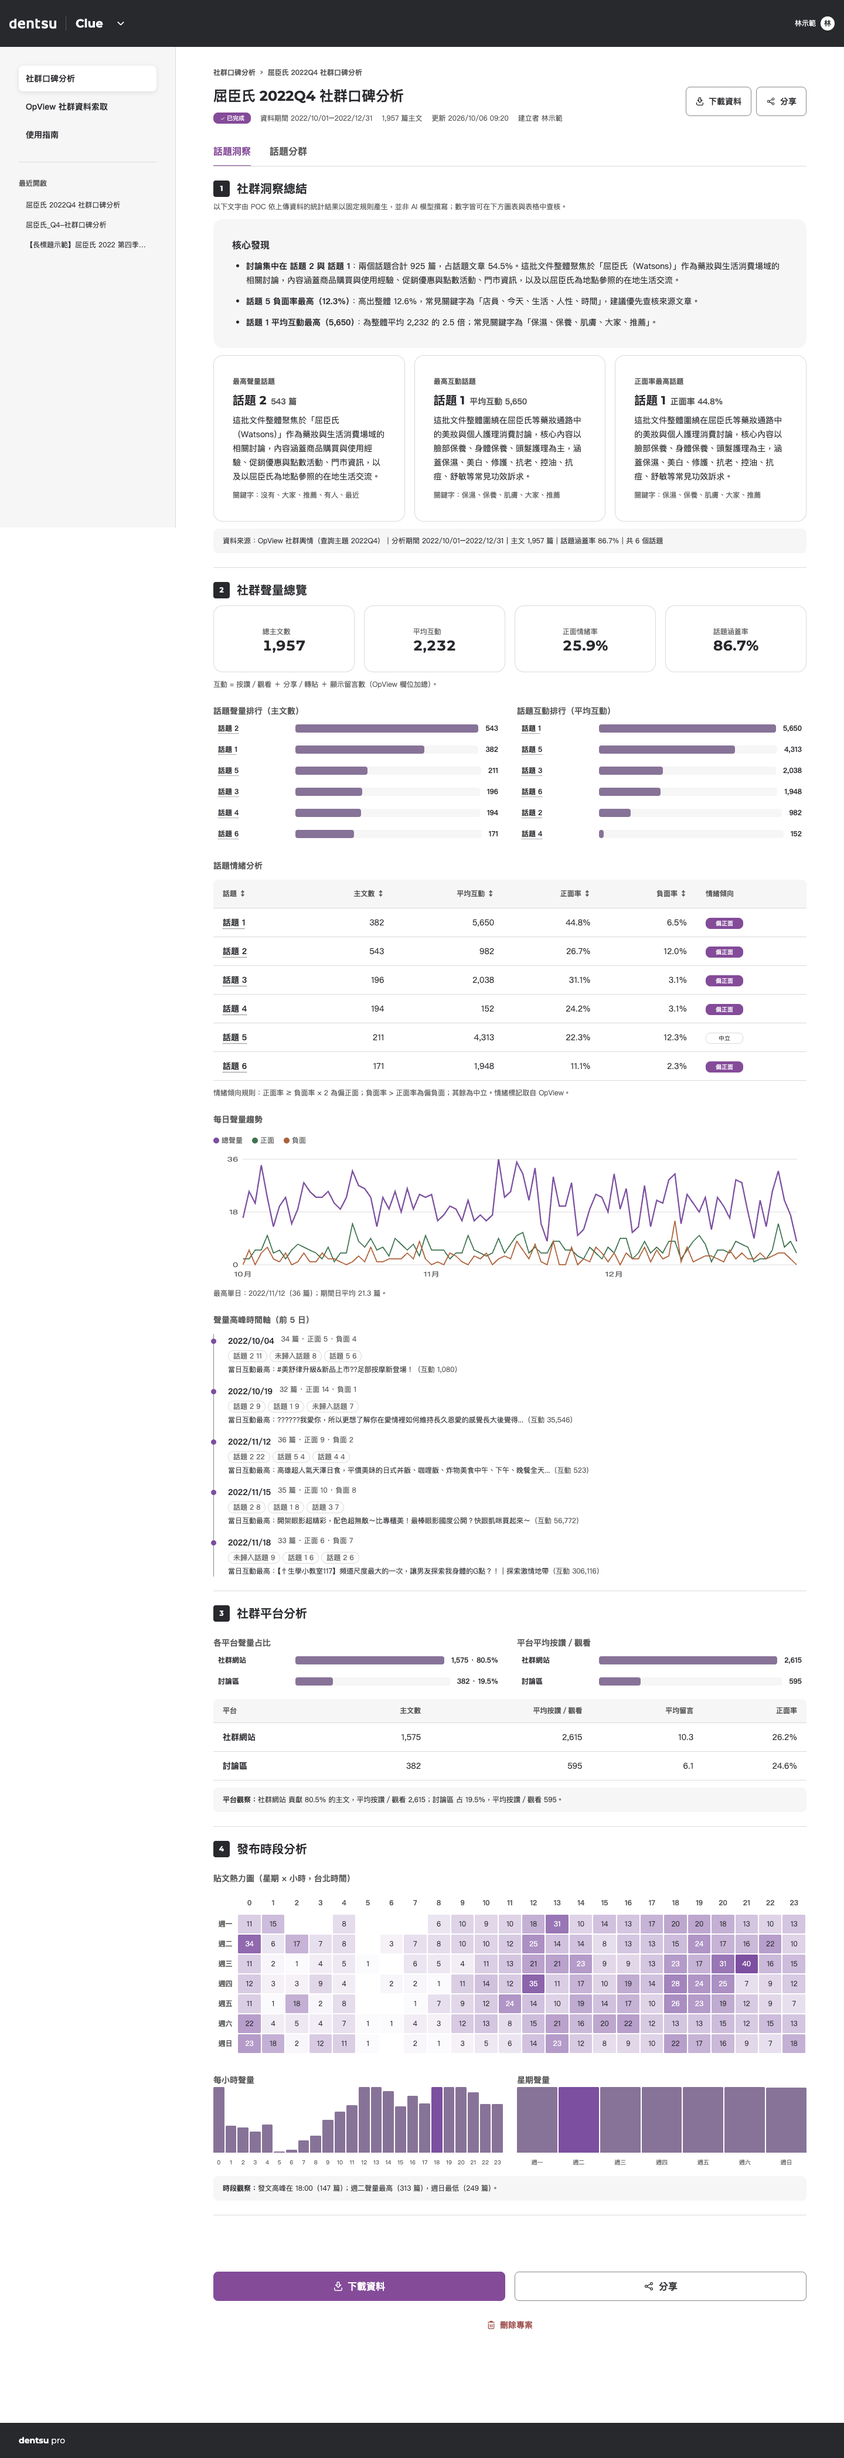
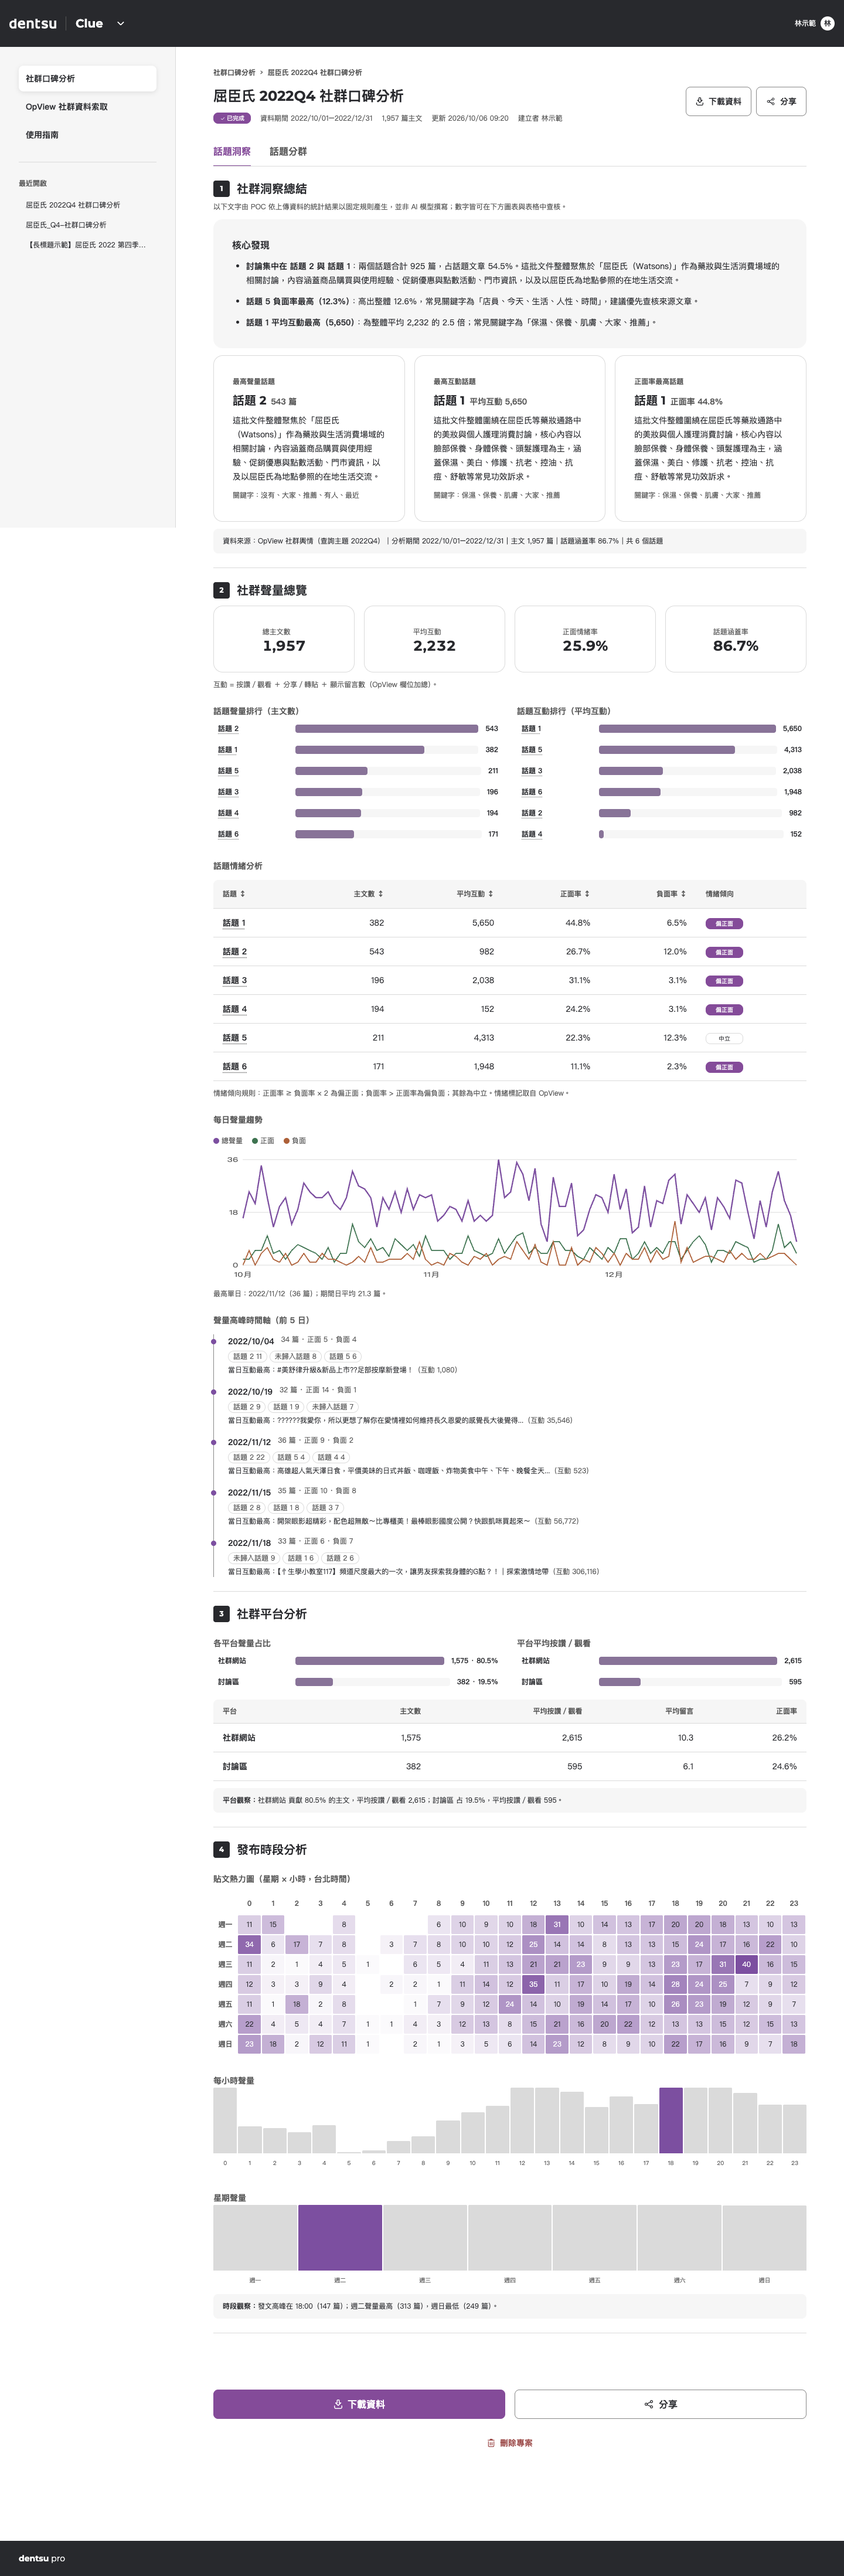
Stack hourly/weekday bars, recolor by rank, add value tooltips to charts
- 每小時聲量 / 星期聲量 charts: stacked vertically instead of side-by-side;
  bars default to light gray, only the peak bar stays Clue purple; each bar
  is now a focusable button showing its value on hover/focus/click.
- 每日聲量趨勢 line chart: added invisible per-day hit areas so hovering,
  focusing, or clicking a point shows that day's 總聲量/正面/負面 values in
  a tooltip color-matched to the legend (purple/green/brown).
- Extended the shared tooltip (topic-tip.js) with showSimple() and
  showMulti(), plus click-to-show and click-away-to-dismiss so it also
  works on touch devices.

220/220 E2E checks pass.

diff --git a/poc/js/views/analysis.js b/poc/js/views/analysis.js
@@ -271,6 +271,21 @@ async function renderResults(view, an, query) {
   view.addEventListener('mouseout', (e) => { if (e.target.closest('[data-topic]')) topicTip.hide(); });
   view.addEventListener('focusin', (e) => { const el = e.target.closest('[data-topic]'); if (el) showTip(el); });
   view.addEventListener('focusout', (e) => { if (e.target.closest('[data-topic]')) topicTip.hide(); });
+  view.addEventListener('click', (e) => { const el = e.target.closest('[data-topic]'); if (el) showTip(el); });
+  // 每小時／星期聲量長條：hover／focus／click 顯示數量
+  const showBarTip = (el) => topicTip.showSimple(el, el.dataset.tip);
+  view.addEventListener('mouseover', (e) => { const el = e.target.closest('[data-tip]'); if (el) showBarTip(el); });
+  view.addEventListener('mouseout', (e) => { if (e.target.closest('[data-tip]')) topicTip.hide(); });
+  view.addEventListener('focusin', (e) => { const el = e.target.closest('[data-tip]'); if (el) showBarTip(el); });
+  view.addEventListener('focusout', (e) => { if (e.target.closest('[data-tip]')) topicTip.hide(); });
+  view.addEventListener('click', (e) => { const el = e.target.closest('[data-tip]'); if (el) showBarTip(el); });
+  // 每日聲量趨勢折線圖：hover／focus／click 顯示當天總聲量／正面／負面
+  const showDayTip = (el) => topicTip.showMulti(el, el.dataset.dayDate.replaceAll('-', '/'), JSON.parse(el.dataset.dayRows));
+  view.addEventListener('mouseover', (e) => { const el = e.target.closest('[data-day-date]'); if (el) showDayTip(el); });
+  view.addEventListener('mouseout', (e) => { if (e.target.closest('[data-day-date]')) topicTip.hide(); });
+  view.addEventListener('focusin', (e) => { const el = e.target.closest('[data-day-date]'); if (el) showDayTip(el); });
+  view.addEventListener('focusout', (e) => { if (e.target.closest('[data-day-date]')) topicTip.hide(); });
+  view.addEventListener('click', (e) => { const el = e.target.closest('[data-day-date]'); if (el) showDayTip(el); });
   on(view, 'click', '.segmented__item', (e, el) => selectSub(el.dataset.sub, true));
   on(view, 'keydown', '.segmented__item', (e, el) => {
     const keys = SUBS.map((s) => s.key); const i = keys.indexOf(el.dataset.sub);
@@ -463,9 +478,9 @@ function insightTab(an, res) {
     <div class="scroll-x" tabindex="0" role="region" aria-label="貼文熱力圖，可左右捲動">
       ${heatTable(R.heatmap, WD, Array.from({ length: 24 }, (_, h) => h), { caption: '各星期與小時的主文數' })}
     </div>
-    <div class="grid-2">
-      <div><h4 class="report-sub">每小時聲量</h4>${columnsPlain(R.hourly.map((v, h) => ({ label: `${h}`, value: v, strong: h === peakHour })), '每小時主文數')}</div>
-      <div><h4 class="report-sub">星期聲量</h4>${columnsPlain(R.weekday.map((v, i) => ({ label: WD[i], value: v, strong: i === wdMax })), '各星期主文數')}</div>
+    <div class="chart-stack">
+      <div><h4 class="report-sub">每小時聲量</h4>${columnsPlain(R.hourly.map((v, h) => ({ label: `${h}`, value: v, tip: `${h}:00 · ${v} 篇`, strong: h === peakHour })), '每小時主文數')}</div>
+      <div><h4 class="report-sub">星期聲量</h4>${columnsPlain(R.weekday.map((v, i) => ({ label: WD[i], value: v, tip: `${WD[i]} · ${v} 篇`, strong: i === wdMax })), '各星期主文數')}</div>
     </div>
     <p class="highlight-line"><strong>時段觀察：</strong>發文高峰在 ${peakHour}:00（${R.hourly[peakHour]} 篇）；${WD[wdMax]}聲量最高（${R.weekday[wdMax]} 篇），${WD[wdMin]}最低（${R.weekday[wdMin]} 篇）。</p>
   </section>`;
@@ -473,8 +488,9 @@ function insightTab(an, res) {
 
 function columnsPlain(rows, label) {
   const m = Math.max(...rows.map((r) => r.value), 1);
-  return html`<div class="minicols" role="img" aria-label="${label}：${rows.map((r) => `${r.label} ${r.value}`).join('、')}">
-    ${rows.map((r) => html`<span class="minicols__col ${r.strong ? 'is-strong' : ''}"><span class="minicols__bar" style="--h:${(r.value / m) * 100}%"></span><span class="minicols__label">${r.label}</span></span>`)}
+  return html`<div class="minicols" aria-label="${label}">
+    ${rows.map((r) => html`<button type="button" class="minicols__col ${r.strong ? 'is-strong' : ''}" data-tip="${r.tip ?? `${r.label} · ${r.value} 篇`}" aria-label="${r.tip ?? `${r.label}：${r.value} 篇`}">
+      <span class="minicols__bar" style="--h:${(r.value / m) * 100}%"></span><span class="minicols__label">${r.label}</span></button>`)}
   </div>`;
 }
 

diff --git a/poc/styles/app.css b/poc/styles/app.css
@@ -658,10 +658,17 @@ a.hbar__link:hover { background: var(--ds-color-bg-subtle); }
 .colchart__col.is-strong .colchart__bar { background: var(--poc-chart-data-strong); opacity: 1; }
 .colchart__value { font-size: var(--ds-font-size-body); font-weight: var(--ds-font-weight-bold); }
 .colchart__label { font-size: var(--ds-font-size-body); font-weight: var(--ds-font-weight-bold); }
+.chart-stack { display: flex; flex-direction: column; gap: var(--ds-space-l); }
 .minicols { display: flex; align-items: flex-end; gap: 2px; block-size: 140px; }
-.minicols__col { flex: 1; block-size: 100%; display: flex; flex-direction: column; justify-content: flex-end; align-items: center; gap: var(--ds-space-xxs); min-width: 0; }
-.minicols__bar { inline-size: 100%; block-size: var(--h); background: var(--poc-chart-data); border-radius: 2px 2px 0 0; }
+.minicols__col {
+  flex: 1; block-size: 100%; min-width: 0; min-height: 44px;
+  display: flex; flex-direction: column; justify-content: flex-end; align-items: center; gap: var(--ds-space-xxs);
+  padding: 0; background: none; border: 0; cursor: pointer;
+}
+.minicols__bar { inline-size: 100%; block-size: var(--h); min-block-size: 2px; background: var(--ds-color-border); border-radius: 2px 2px 0 0; transition: background-color var(--ds-duration-state) ease; }
+.minicols__col:hover .minicols__bar, .minicols__col:focus-visible .minicols__bar { background: var(--ds-color-border-control); }
 .minicols__col.is-strong .minicols__bar { background: var(--poc-chart-data-strong); }
+.minicols__col.is-strong:hover .minicols__bar, .minicols__col.is-strong:focus-visible .minicols__bar { background: var(--poc-chart-data-strong); }
 .minicols__label { font-size: 10px; color: var(--ds-color-text-secondary); } /* 圖表軸標籤，Wonder text-chart-axes 為 7px 過小，POC 取 10px（gap） */
 .linechart { margin: 0; }
 .linechart svg { inline-size: 100%; block-size: 220px; overflow: visible; }
@@ -671,6 +678,8 @@ a.hbar__link:hover { background: var(--ds-color-bg-subtle); }
 .linechart__line--total { stroke: var(--poc-chart-data-strong); stroke-width: 2.25; }
 .linechart__line--pos { stroke: var(--ds-color-success); }
 .linechart__line--neg { stroke: var(--poc-status-failed); }
+.linechart__hit { fill: transparent; cursor: pointer; }
+.linechart__hit:focus-visible { fill: color-mix(in srgb, var(--ds-color-text-primary) 6%, transparent); outline: none; }
 .heat { width: 100%; border-collapse: separate; border-spacing: 2px; font-size: var(--ds-font-size-body); }
 .heat th { font-weight: var(--ds-font-weight-bold); color: var(--ds-color-text-secondary); padding: var(--ds-space-xxs); white-space: nowrap; text-align: center; }
 .heat tbody th { text-align: right; padding-right: var(--ds-space-xs); position: sticky; left: 0; background: var(--ds-color-bg-card); }
@@ -1071,6 +1080,8 @@ a.hbar__link:hover { background: var(--ds-color-bg-subtle); }
 }
 .topic-tip__title { font-weight: var(--ds-font-weight-bold); margin-bottom: var(--ds-space-xxs); }
 .topic-tip__kw { margin-top: var(--ds-space-xxs); opacity: .85; }
+.topic-tip__row { display: flex; align-items: center; justify-content: space-between; gap: var(--ds-space-m); margin-top: 2px; }
+.topic-tip__row .legend { color: var(--ds-color-text-inverse); }
 
 /* 使用指南：搜尋／篩選列黏在頁首下方 */
 .view--guide .zone--filters--sticky {

diff --git a/poc/js/views/topic-tip.js b/poc/js/views/topic-tip.js
@@ -1,4 +1,4 @@
-// ds-sense 產出 — 話題提示（hover／keyboard focus 時顯示簡短話題內容與關鍵字）
+// ds-sense 產出 — 共用提示框（hover／focus／click 顯示；供話題摘要與長條圖數值共用）
 import { html } from '../core/dom.js';
 
 let tip = null;
@@ -18,7 +18,22 @@ function ensure() {
   window.addEventListener('scroll', () => { if (Date.now() - shownAt > 300) hide(); }, { passive: true });
   window.addEventListener('hashchange', hide);
   document.addEventListener('keydown', (e) => { if (e.key === 'Escape') hide(); });
+  // 點其他地方（非觸發元素、非提示框本身）關閉；讓觸控裝置也能用點擊顯示、點別處收起
+  document.addEventListener('pointerdown', (e) => {
+    if (!tip || tip.hidden) return;
+    if (e.target === current || current?.contains(e.target) || tip.contains(e.target)) return;
+    hide();
+  });
   return tip;
+}
+
+function place(el) {
+  const r = el.getBoundingClientRect();
+  const w = tip.offsetWidth; const h = tip.offsetHeight;
+  const left = Math.max(8, Math.min(r.left, window.innerWidth - w - 8));
+  const top = r.top - h - 8 >= 8 ? r.top - h - 8 : r.bottom + 8;
+  tip.style.left = `${left}px`;
+  tip.style.top = `${top}px`;
 }
 
 export const topicTip = {
@@ -29,12 +44,27 @@ export const topicTip = {
     shownAt = Date.now();
     current = el;
     el.setAttribute('aria-describedby', 'topic-tip');
-    const r = el.getBoundingClientRect();
-    const w = t.offsetWidth; const h = t.offsetHeight;
-    const left = Math.max(8, Math.min(r.left, window.innerWidth - w - 8));
-    const top = r.top - h - 8 >= 8 ? r.top - h - 8 : r.bottom + 8;
-    t.style.left = `${left}px`;
-    t.style.top = `${top}px`;
+    place(el);
+  },
+  /** 單行簡易提示（例如長條圖的數值） */
+  showSimple(el, text) {
+    const t = ensure();
+    t.innerHTML = html`<p class="topic-tip__title">${text}</p>`;
+    t.hidden = false;
+    shownAt = Date.now();
+    current = el;
+    el.setAttribute('aria-describedby', 'topic-tip');
+    place(el);
+  },
+  /** 多系列提示（例如折線圖某一天的總聲量／正面／負面），rows: [{ label, value, cls }] */
+  showMulti(el, title, rows) {
+    const t = ensure();
+    t.innerHTML = html`<p class="topic-tip__title">${title}</p>${rows.map((r) => html`<p class="topic-tip__row"><span class="legend legend--${r.cls}">${r.label}</span><span class="num">${r.value}</span></p>`)}`;
+    t.hidden = false;
+    shownAt = Date.now();
+    current = el;
+    el.setAttribute('aria-describedby', 'topic-tip');
+    place(el);
   },
   hide() {
     if (!tip || tip.hidden) return;

diff --git a/poc/js/views/charts.js b/poc/js/views/charts.js
@@ -53,12 +53,16 @@ export function lineChart(dates, series, { label }) {
   const y = (v) => H - P.b - (v / max) * (H - P.t - P.b);
   const ticks = [0, Math.round(max / 2), max];
   const months = dates.map((d, i) => [d, i]).filter(([d]) => d.endsWith('-01'));
+  const step = dates.length > 1 ? (W - P.l - P.r) / (dates.length - 1) : W - P.l - P.r;
   return html`<figure class="linechart">
     <div class="pairbar-legend" aria-hidden="true">${series.map((s) => html`<span class="legend legend--${s.cls}">${s.label}</span>`)}</div>
     <svg viewBox="0 0 ${W} ${H}" role="img" aria-label="${label}" preserveAspectRatio="none">
       ${ticks.map((t) => raw(`<line class="linechart__grid" x1="${P.l}" x2="${W - P.r}" y1="${y(t)}" y2="${y(t)}"/><text class="linechart__tick" x="${P.l - 6}" y="${y(t) + 4}" text-anchor="end">${t}</text>`))}
       ${months.map(([d, i]) => raw(`<text class="linechart__tick" x="${x(i)}" y="${H - 8}" text-anchor="middle">${Number(d.slice(5, 7))}月</text>`))}
       ${series.map((s) => raw(`<polyline class="linechart__line linechart__line--${s.cls}" points="${s.values.map((v, i) => `${x(i).toFixed(1)},${y(v).toFixed(1)}`).join(' ')}"/>`))}
+      ${dates.map((d, i) => raw(`<rect class="linechart__hit" tabindex="0" x="${(x(i) - step / 2).toFixed(1)}" y="${P.t}" width="${step.toFixed(1)}" height="${H - P.t - P.b}"
+        data-day-date="${d}" data-day-rows='${JSON.stringify(series.map((s) => ({ label: s.label, value: s.values[i], cls: s.cls })))}'
+        aria-label="${d}：${series.map((s) => `${s.label} ${s.values[i]}`).join('、')}"/>`))}
     </svg>
   </figure>`;
 }

diff --git a/poc/docs/verification.md b/poc/docs/verification.md
@@ -84,6 +84,10 @@
 ✅ 話題洞察分頁文案不再出現「分群」
 ✅ 情緒傾向標籤沿用狀態標籤樣式：偏正面＝紫底、中立＝灰框、偏負面＝咖啡底，寬度一致 — [{"t":"偏正面","cls":"completed","w":64},{"t":"偏正面","cls":"completed","w":64},{"t":"偏正面","cls":"completed","w":64},{"t":"偏正面","cls":"completed","w":64},{"t":"中立","cls":"processing","w":64},{"t":"偏正面","cls":"completed","w":64}]
 ✅ 每日聲量圖：負面＝咖啡色（與標籤同色）、正面＝綠、總聲量＝紫 — {"neg":"rgb(173, 96, 56)","pos":"rgb(62, 115, 80)","total":"rgb(124, 79, 160)"}
+✅ hover 每日聲量圖顯示當天總聲量／正面／負面，顏色對應圖例 — 2022/11/12總聲量36正面9負面2
+✅ 滑開後提示消失
+✅ click 每日聲量圖也會顯示提示
+✅ 點其他地方收起折線圖提示
 ✅ KPI 卡：數字組整體置中，上方小字與數字左緣對齊 — [{"centered":true,"sameLeft":true},{"centered":true,"sameLeft":true},{"centered":true,"sameLeft":true},{"centered":true,"sameLeft":true}]
 ✅ 話題排行 hover 顯示簡短話題內容與關鍵字 — 話題 2這批文件整體聚焦於「屈臣氏（Watsons）」作為藥妝與生活消費場域的相關討論，內容涵蓋商品購買與使用經驗、促銷優惠與點數活動、…關鍵字：沒有、大家、推薦、有人、最近
 ✅ 滑開後提示消失
@@ -92,6 +96,11 @@
 ✅ Esc 關閉提示
 ✅ 話題洞察標示非 AI 模型撰寫
 ✅ 發布時段熱力圖寬度撐滿容器（fill container） — {"t":1012,"c":1012}
+✅ 每小時聲量／星期聲量改為上下堆疊（不同列）
+✅ 只有最高聲量長條是紫色，其餘為淺灰色 — ["rgb(124, 79, 160)","rgb(218, 218, 218)"]
+✅ hover 長條顯示數量提示
+✅ click 長條也會顯示數量提示
+✅ 點其他地方會收起提示
 ✅ 底部有下載資料／分享大按鍵與刪除專案 — 下載資料|分享|刪除專案
 ✅ 只有一個主要 CTA
 ✅ 方向鍵切到「話題分群」，預設顯示第二層「分群摘要」
@@ -216,7 +225,7 @@
 ✅ 沒有對外部服務送出請求
 ✅ Console 無錯誤
 
-211/211 項通過
+220/220 項通過
 ```
 
 ## 對比（白底／白字）

diff --git a/poc/README.md b/poc/README.md
@@ -71,6 +71,12 @@ NODE_PATH=<含 xlsx 套件的 node_modules> node scripts/build-watsons-data.cjs 
 
 情緒標籤（話題洞察的「情緒傾向」、來源文章的「正面／中立／負面」）沿用同一個樣式：偏正面／正面＝紫底白字、中立＝灰框、偏負面／負面＝咖啡底白字。
 
+## 長條圖與折線圖的 hover／click 提示
+
+- 「每小時聲量」「星期聲量」改為上下堆疊（原本並排）；長條預設淺灰，只有最高聲量那一條是 Clue 紫；滑鼠移上去、鍵盤 focus 或點擊都會顯示該時段／星期的篇數，可用鍵盤 Tab 到達。
+- 「每日聲量趨勢」折線圖新增可互動區域：同樣以 hover／focus／click 顯示當天的總聲量（紫）、正面（綠）、負面（咖啡），顏色與上方圖例一致。
+- 兩者共用同一個提示框元件（`js/views/topic-tip.js`），新增點擊其他地方即收起的行為，觸控裝置也能用點擊顯示、點別處收起。
+
 ## 表格寬度撐滿容器
 
 「發布時段分析」的貼文熱力圖，以及「話題分群」裡的關鍵字矩陣圖，兩個表格的寬度改為撐滿所在卡片／容器寬度（fill container），不再維持內容原本的窄寬度。
@@ -194,7 +200,7 @@ js/data/seed.js               ← 合成資料：Analysis／Dataset／Topic／In
 js/core/{router,store,telemetry,dom}.js
 js/views/{workbench,create,analysis,poc-panel,ui,icons}.js
 styles/{bridge,theme-clue,app}.css
-tests/e2e.mjs                 ← puppeteer-core 端到端驗證（211 項）
+tests/e2e.mjs                 ← puppeteer-core 端到端驗證（220 項）
 ```
 
 `localStorage` 只保存合成分析資料與介面狀態，**不保存檔案內容**。重新整理頁面後，會明確要求重新選擇檔案。
